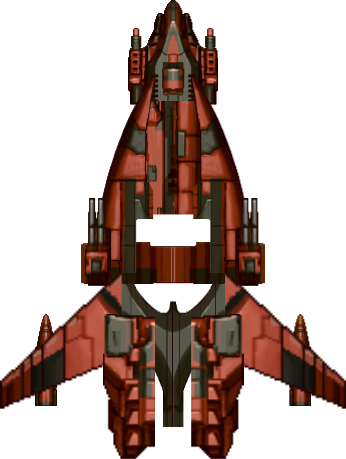
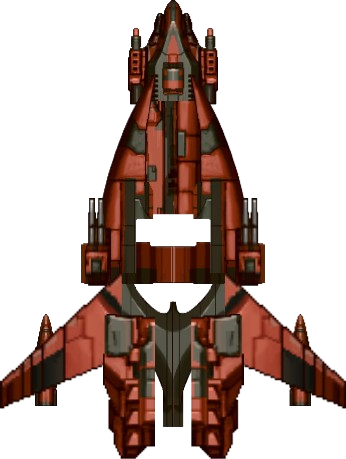
Pretty much finished version, main improvement steps (if I would continue working): better aproach than matplotlib for checking intersection, iteration of same list for projectile removement, dependency on upd_hitbox_points during collision checking

diff --git a/game.py b/game.py
@@ -2,24 +2,39 @@ import pygame
 import os
 import sys
 import logic
+import random
 
 pygame.init() # source: https://www.youtube.com/watch?v=dQw4w9WgXcQ&list=RDdQw4w9WgXcQ&start_radio=1
 screen = pygame.display.set_mode((1280, 720))
 clock = pygame.time.Clock()
 running = True
 dt = 0
+score = 0
 
 cd_timer = pygame.time.Clock()
 cd_timer.tick()
 cd = 0
-        
+
+enemy_timer = pygame.time.Clock()
+enemy_timer.tick()
+enemy_cooldown = random.randint(2000, 5000)
+enemy_time = 0
+enemies = []
+enemy_image = pygame.image.load(os.path.join("enemy.png")).convert_alpha()
+enemy_image = pygame.transform.scale_by(enemy_image, 0.1875)
+
 player_image = pygame.image.load(os.path.join("player.png")).convert_alpha()
-player_image = pygame.transform.scale_by(player_image, 0.25)
+player_image = pygame.transform.scale_by(player_image, 0.1875)
 player = logic.Player(0, pygame.Vector2(screen.get_width() / 2, screen.get_height() / 2), player_image)
 projectiles = []
 
 while running: # game loop cycle
+        
+    # fill the screen with a color to wipe away anything from last frame
+    screen.fill("black")
+
     dt = clock.tick(60) / 1000
+    enemy_time += enemy_timer.tick()
     
     for event in pygame.event.get(): # event listener
         if event.type == pygame.QUIT: # player pressed "X"
@@ -48,13 +63,41 @@ while running: # game loop cycle
             projectile = logic.Projectile(player.angle, player.pos, player)
             projectiles.append(projectile)
 
-    # fill the screen with a color to wipe away anything from last frame
-    screen.fill("black")
-
     for projectile in projectiles:
         delete = projectile.upd(screen, 900, dt)
         if delete:
             projectiles.remove(projectile)
+
+    if enemy_time >= enemy_cooldown:
+        enemy_cooldown = random.randint(2000, 5000)
+        enemy_time = 0
+
+        is_y = random.randint(0, 1)
+        if is_y == 1:
+            x_pos = 0
+            y_pos = random.randint(0, screen.get_height())
+        else:
+            y_pos = 0
+            x_pos = random.randint(0, screen.get_width())
+
+        enemy = logic.Enemy(0, pygame.Vector2(x_pos, y_pos), enemy_image)
+        enemies.append(enemy)
+    
+    for enemy in enemies:
+        enemy.pos.move_towards_ip(player.pos, random.randint(2, 4))
+        enemy.upd(screen)
+
+        for projectile in projectiles:
+            projectile_points = [projectile.start_point, projectile.end_point]
+            if enemy.check_contact(projectile_points):
+                enemies.remove(enemy)
+                projectiles.remove(projectile)
+                score += 1
+
+        if enemy.check_contact(player.upd_hitbox_points):
+            print("you reached a score of:", score)
+            running = False
+
     player.upd(screen)
 
     # for testing pygame.draw.polygon(screen, (255, 0, 0), player.upd_hitbox_points)

diff --git a/logic.py b/logic.py
@@ -1,4 +1,5 @@
 import pygame
+import matplotlib.path as mpath
 
 class Game_Object:
     def __init__(self, angle, pos):
@@ -69,3 +70,15 @@ class Projectile(Game_Object):
             return False
         else:
             return True
+
+class Enemy(Player):
+    def __init__(self, angle, pos, img):
+        super().__init__(angle, pos, img)
+
+    def check_contact(self, polygon2_points):
+        enemy_polygon = mpath.Path(self.upd_hitbox_points)
+        polygon2 = mpath.Path(polygon2_points)
+        if enemy_polygon.intersects_path(polygon2):
+            return True
+        else: 
+            return False